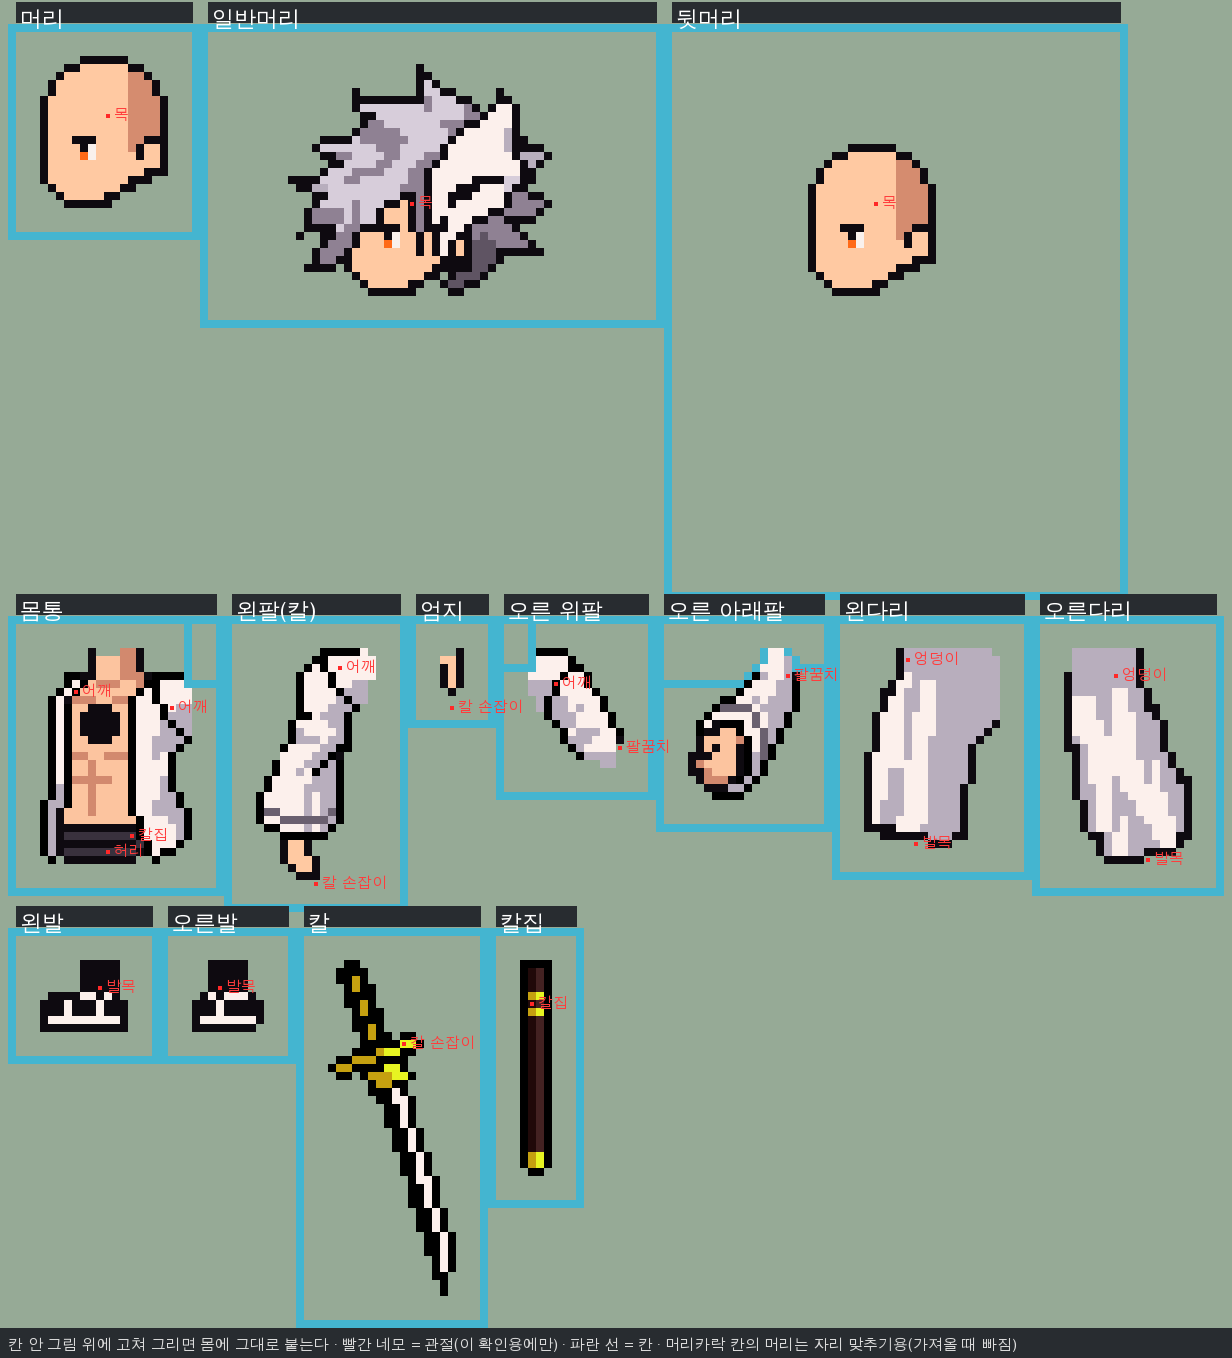
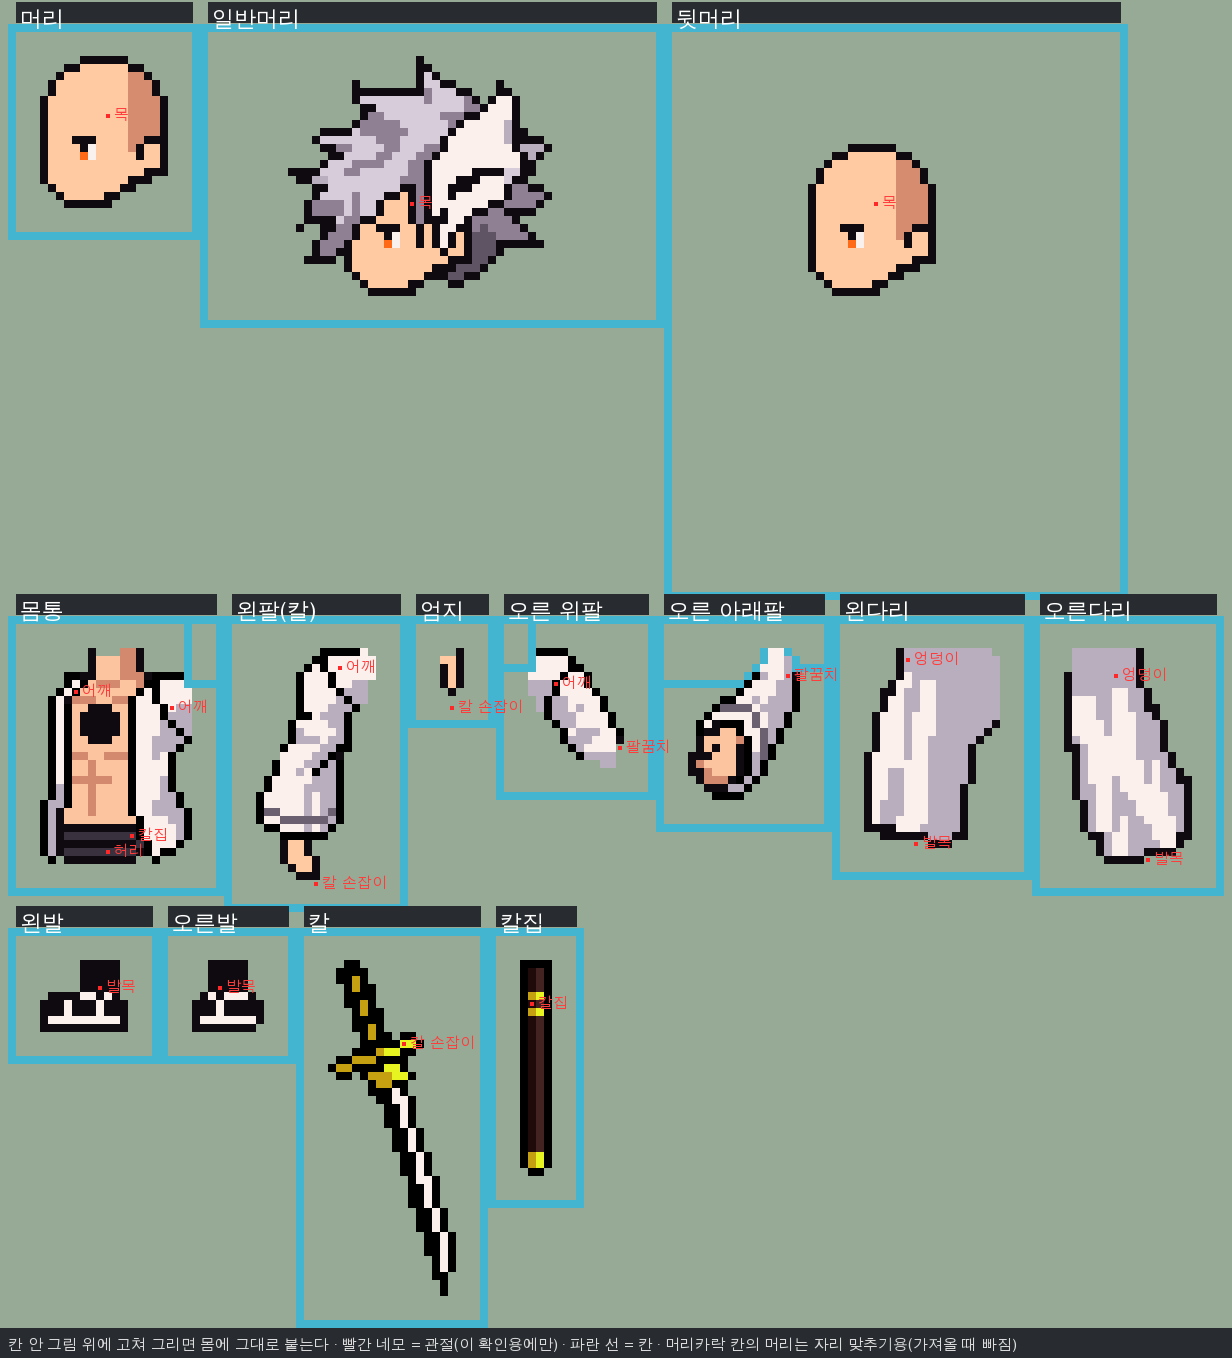
C.151 종이인형: 고정 버튼 값(아란칼 머리카락 자리)
Claude-Session: https://claude.ai/code/session_011W8zFEjKADtTYyQZXReU7r

Changed region(s): [[0.2159, 0.0309, 0.4627, 0.2165]]

diff --git a/docs/dev-log.md b/docs/dev-log.md
@@ -1413,6 +1413,7 @@ C.0 ~ C.59 는 `docs/dev-log-archive.md` 로 옮겼다(2026-10-20, 사용량 절
 - 머리카락 틀 56×36, 뒷머리 틀 56×70(`backRect`, `hairRect()`)(GDD 96장 27).
 - 사신 도트 수정안 반영(오른 위팔·아래팔·왼다리), 사신 가이드 재생성.
 - 가이드 머리카락 칸에 머리 불투명(가져올 때 빼기), 사신 최신, 고정 버튼 값(머리 관절 등)(GDD 96장 28).
+- 고정 버튼 값: 아란칼 기본형 머리카락 (0,-1).
 - **테스트** `tests/paperdoll.test.ts` 28개(부위 그림 크기 = 파일 크기 확인 추가, `tests/helpers/pngSize.ts`).
 - 이 브랜치에 있던 옛 홈 물건 32칸 작업(C.113 번호, main 에 안 들어감)은 main 쪽으로 되돌렸다. 도구 `scripts/depixel/`(도트 되돌리기·긴 쪽 N칸·색 수 제한·재질 2톤·줄 밀기)·`scripts/sprite-rig/`(옛 시험)는 남김.
 
